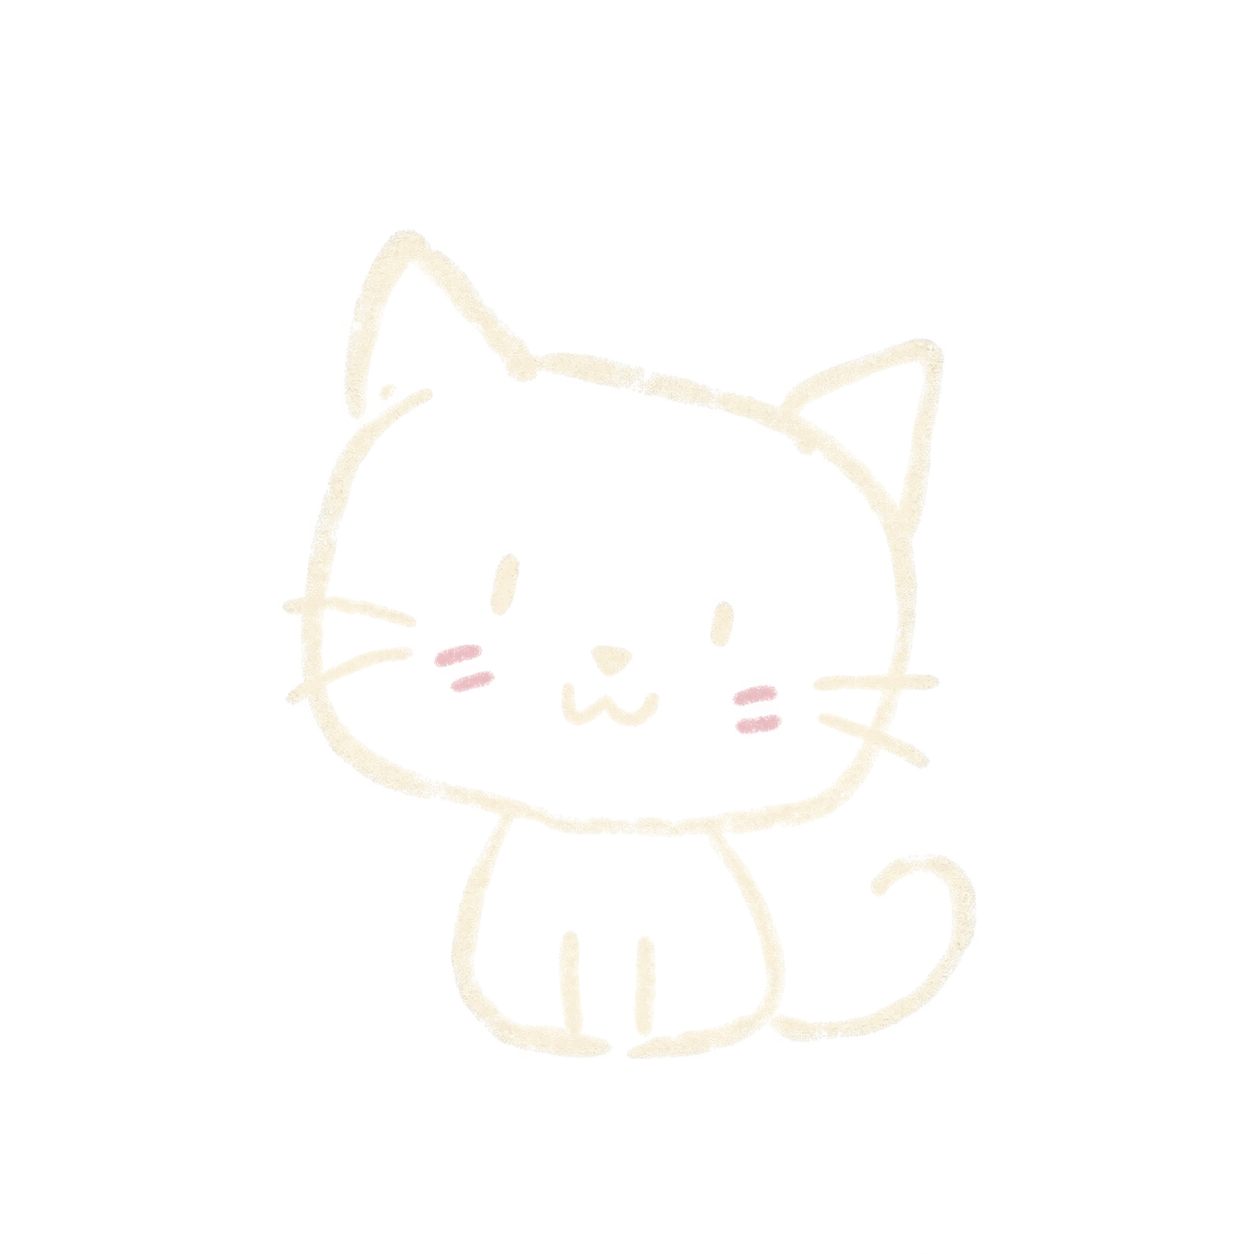
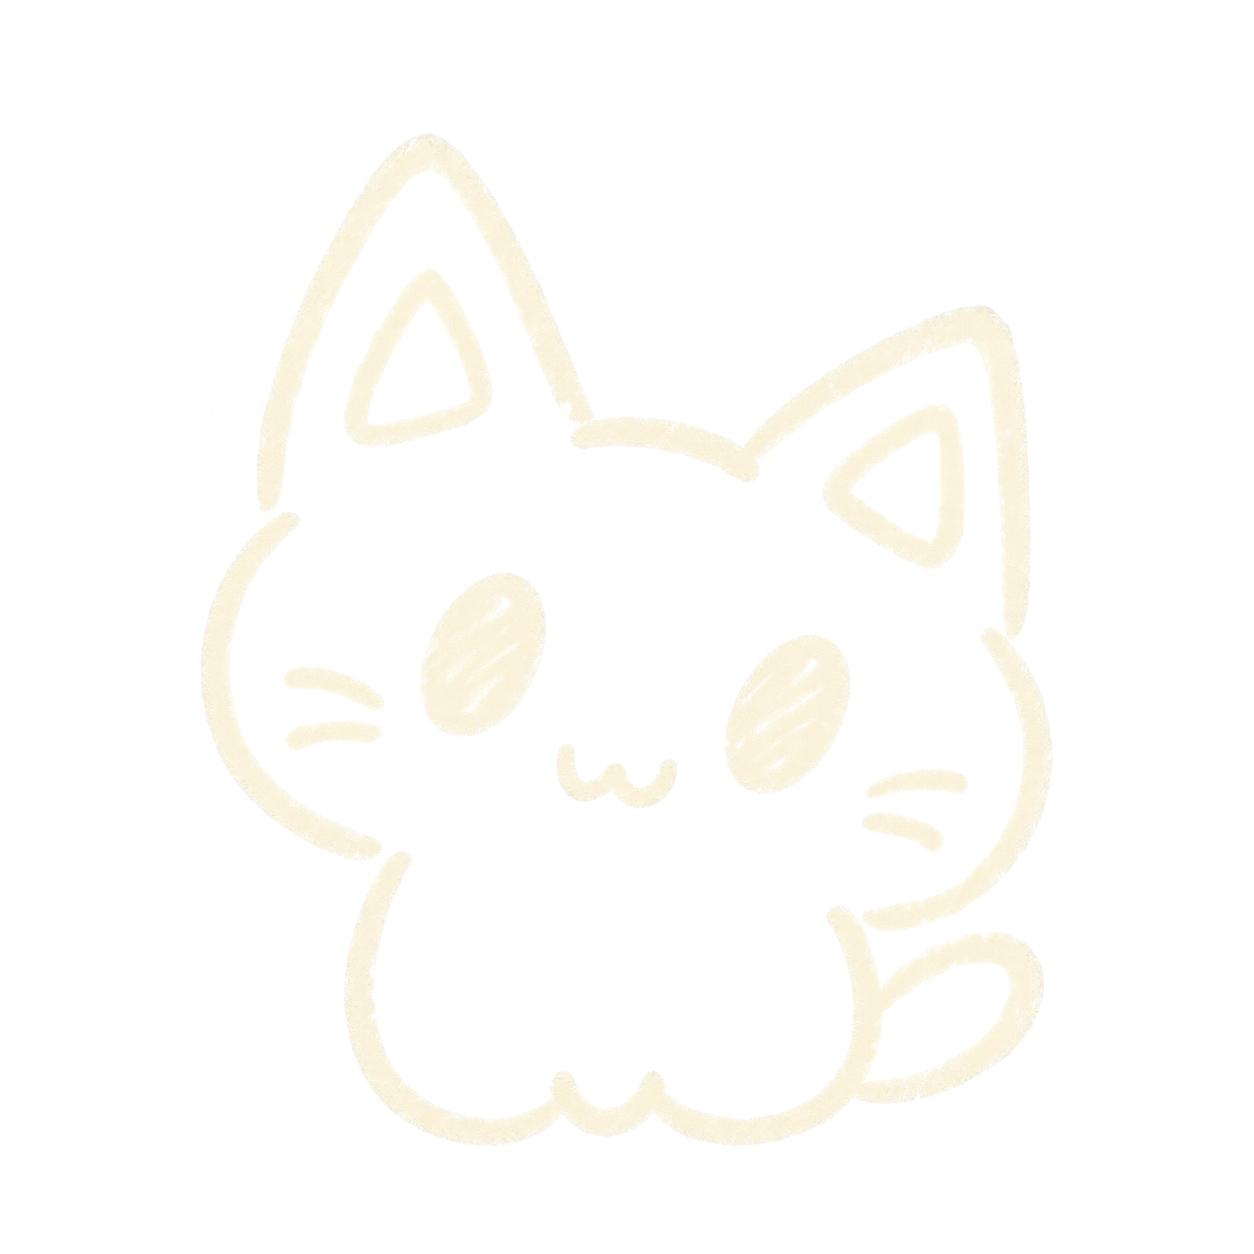
art: adapt chalk cat to supplied sketch reference

Changed region(s): [[0.1555, 0.0933, 0.8397, 0.933], [0.5598, 0.4665, 0.5909, 0.5287]]

diff --git a/public/classroom/chalk/handdrawn/PROMPTS.md b/public/classroom/chalk/handdrawn/PROMPTS.md
@@ -38,7 +38,7 @@ Subject: ONE very cute simple sitting kitten, front-facing, with a slightly tilt
 
 ## 第二版：气球绳线与猫咪手绘感
 
-2026-09-10，根据用户对气球绳线缺少粉笔感、猫咪过于精致的反馈更新。以下两段是当前气球和猫咪最终采用的提示词，取代上方第一版对应结果。爱心和星星沿用第一版。使用内置 imagegen 分别重新生成透明素材，保留原调用地址；前两次图像编辑返回了带棋盘格的非透明文件，未采用。
+2026-09-10，根据用户对气球绳线缺少粉笔感、猫咪过于精致的反馈更新。以下两段是第二版气球和猫咪采用的提示词。第二版气球已获用户认可，猫咪的当前候选见下方第三版记录。爱心和星星沿用第一版。使用内置 imagegen 分别重新生成透明素材，保留原调用地址；前两次图像编辑返回了带棋盘格的非透明文件，未采用。
 
 ### balloons：当前版本
 
@@ -48,10 +48,25 @@ Three simple softly lopsided oval balloons: dusty pink #e6b1ba at left, pastel y
 Most important: the three hanging strings must unmistakably be HAND-DRAWN CHALK MARKS ON A BOARD. Use ONE thin dry warm-ivory #f5efdb stroke per string, with a naturally wandering path, visible pressure changes, short interruptions, crumbly grain breaking THROUGH the line, and modest hesitant kinks. NOT smooth ribbon, NOT two parallel outlines, NOT a solid continuous tube, NOT rope texture. Strings much thinner than the balloon outlines: roughly 5 to 9 px on a 1254 px canvas. The overall path has only a few loose bends and the three lines meet at a simple lower point with no bow. Every part of each string must show chalk friction and transparency, not a smooth solid strip with a rough edge. Sparse modest marks like a person sketched the three strings quickly with the tip of a worn chalk stick. Match physical chalk texture of the balloon fill. Keep the bunch short enough for a square web motif legible at 160 CSS pixels. Cute, relaxed, hand-drawn, very simple.
 ```
 
-### cat：当前版本
+### cat：第二版记录
 
 ```text
 Use case: stylized-concept. Create ONE original transparent chalk-doodle kitten asset for a classroom website. Draw one sitting kitten in warm ivory #f5efdb and tiny dusty-pink #e6b1ba accents, the square transparent canvas, and its use as a small decoration on grey-green chalkboard #426e63. This must feel like a charming quick 15-second sketch by a person using an ordinary worn stick of chalk.
 Use just a few economical SINGLE chalk strokes. A slightly lopsided somewhat squarish-rounded head with two unequal casually drawn triangular ears; avoid a polished perfect oval. A tiny body suggested by one irregular U-shaped stroke, two short front-leg ticks, and a SINGLE thin loose curling tail to the right. No detailed paws or toes, no closed tubular tail, no anatomically modeled legs, no contour doubling. Face: two small unequal short chalk dashes for eyes, one tiny chalk nose and a casually written tiny w mouth, two quick unequal whisker strokes each side. Optional blush consists only of two very short broken rubbed pink chalk marks per cheek, not filled circles; ear centers stay empty. Interior of head and body fully transparent.
 Critical mark quality: the contour must visibly wander, change pressure, taper or skip a little, with a few imperfect joins and sparse natural overruns. Slightly wonky proportions and relaxed asymmetry are the source of cuteness. Dry broken chalk deposit with transparent grain gaps running through every stroke, not a digitally smooth contour wearing a noise filter. Stroke widths around 8 to 16 px on the 1254 px canvas, irregularly varying; light and uninflated. Keep the result legible at 160 px and its silhouette at 52 px. Avoid professional mascot finish, precise bezier curves, uniform monoline, airbrush, outlines around strokes, smooth digital fills, extensive white chalk smudge clouds, hatch clutter, decorative elements, texture outside the actual lines, any text, any background, shadow or sticker border. Center the doodle with at least 12 percent clear margin. True RGBA transparent image.
+```
+
+## 第三版：按用户简笔猫参考制作
+
+2026-09-10，用户认可第二版气球，并提供了白板上黑色简笔猫的照片，要求猫咪参考该画法。参考照片保存在 `codex-generated/chalk-handdrawn-2026-09-10/cat-user-reference.png`，仅作造型依据，不将照片中的手、木框或寝具加入网页素材。
+
+首先附参考图调用内置 imagegen 得到近似原图的造型，但返回了非透明棋盘格背景，未采用。随后将已观察的造型转写为下方完整提示词，重新生成了当前透明候选。当前眼睛和轮廓使用暖白粉笔；小爪子与外轮廓相连，尚未达到参考图中身体内部单独双弧线的画法。继续修正时服务返回 `usage_limit_reached`，恢复时间为北京时间 2026-09-15 12:40:46，修正未生成。当前文件仅表示已完成的候选，不表示爪子调整已完成。
+
+### 当前透明候选的完整提示词
+
+```text
+Use case: stylized-concept. Produce ONE transparent PNG web asset, a very simple hand-drawn WARM-IVORY CHALK CAT, with actual RGBA transparency. No backdrop of any sort. Square image, entire drawing within 12% clear margin. Only warm ivory #f5efdb marks, all negative space and grain gaps transparent. The future web backdrop is grey-green but must NOT be present in the image. Do not paint a checkerboard or paper.
+Drawing blueprint: a little plump kitten made with the economy of a casual marker doodle, translated into dry chalk. Huge tall rounded-triangle ears dominate the top, a wide cheeky head and a small squat body joined directly without a neck. The left ear is a tall soft peak near 33% across and 14% down; the right ear is a lower slightly leaning soft peak near 70% across and 23% down, so the whole cat has a gentle clockwise tilt. Each ear contains one simple hollow rounded triangular inner-ear mark. The top-center head joins the ears with one short low curved stroke. Rounded cheek outline bulges out on each side. Tiny natural pen-lift gaps where ears meet cheeks and cheeks flow into the small body. No separate head-to-body divider across the front; the face and body form one connected open interior.
+Two CHUBBY OVAL EYES tilted gently right, set apart; fill each oval with a few grainy dry chalk rubs leaving transparent micro gaps. A single tiny handwritten w shaped smile BETWEEN AND BELOW the eyes, NO nose. Exactly two short curved whisker dashes INSIDE each cheek, no whiskers projecting outside. NO blush. The rounded small body sits beneath the big head, only about one quarter of the complete height. At its bottom draw a single joined double-U/w shaped paw stroke, two little dips side by side attached to the base, with no anatomical legs or toes. A small closed oval-loop tail behind the lower-right side curves outward and back to the lower body; its hollow center remains transparent. The tail does not rise as high as the face.
+Character: affectionate, naive, slightly lopsided and easily drawn by hand, about a dozen simple strokes. No professionally polished mascot style, no extra details, no perfect vector ovals, no uniform mathematical symmetry. All contours are single chalk traces with gently varying pressure, crumbly irregular edges and small granular transparent interruptions through the strokes. Aim for fine but readable strokes around 10–16 px on a 1254px image. The chalk must look rubbed and scratched onto a rough board, with no smooth digital fills and no brush-pen calligraphy. The oval eyes are visibly CHALK-COLORED IN. No clouds of chalk dust outside the lines, no shaded fur, no ground, no shadow, no writing, no tilde, no extra props. True transparent background.
 ```

diff --git a/public/classroom/chalk/handdrawn/README.md b/public/classroom/chalk/handdrawn/README.md
@@ -2,7 +2,7 @@
 
 这一套用于当前教室的灰绿色黑板，配色沿用暖白、淡黄、柔粉和浅蓝。四款素材各自独立，背景透明，粉笔线条和涂色中的颗粒空隙可以透出网页背景。
 
-2026-09-10 第二版更新了气球和猫咪：气球绳线使用粗细起伏、带颗粒断口的粉笔笔迹；猫咪减少脚部细节，以不对称耳朵和短笔画表情表现随手画的感觉。文件地址沿用原路径，PNG 和 WebP 已一同更新。
+2026-09-10：第二版气球已获用户认可；当前猫咪更新为按用户提供的简笔猫参考制作的第三版透明候选，以暖白粉笔表现高耳朵、椭圆眼睛和圆短身体。第三版小爪子目前与身体外缘连在一起，尚未达到参考图中身体内部单独双弧线的画法；追加修正因内置生图额度耗尽未完成。文件地址沿用原路径，PNG 和 WebP 已一同更新。
 
 | 图案 | 标识 | 网页文件 | 原始文件 |
 | --- | --- | --- | --- |
